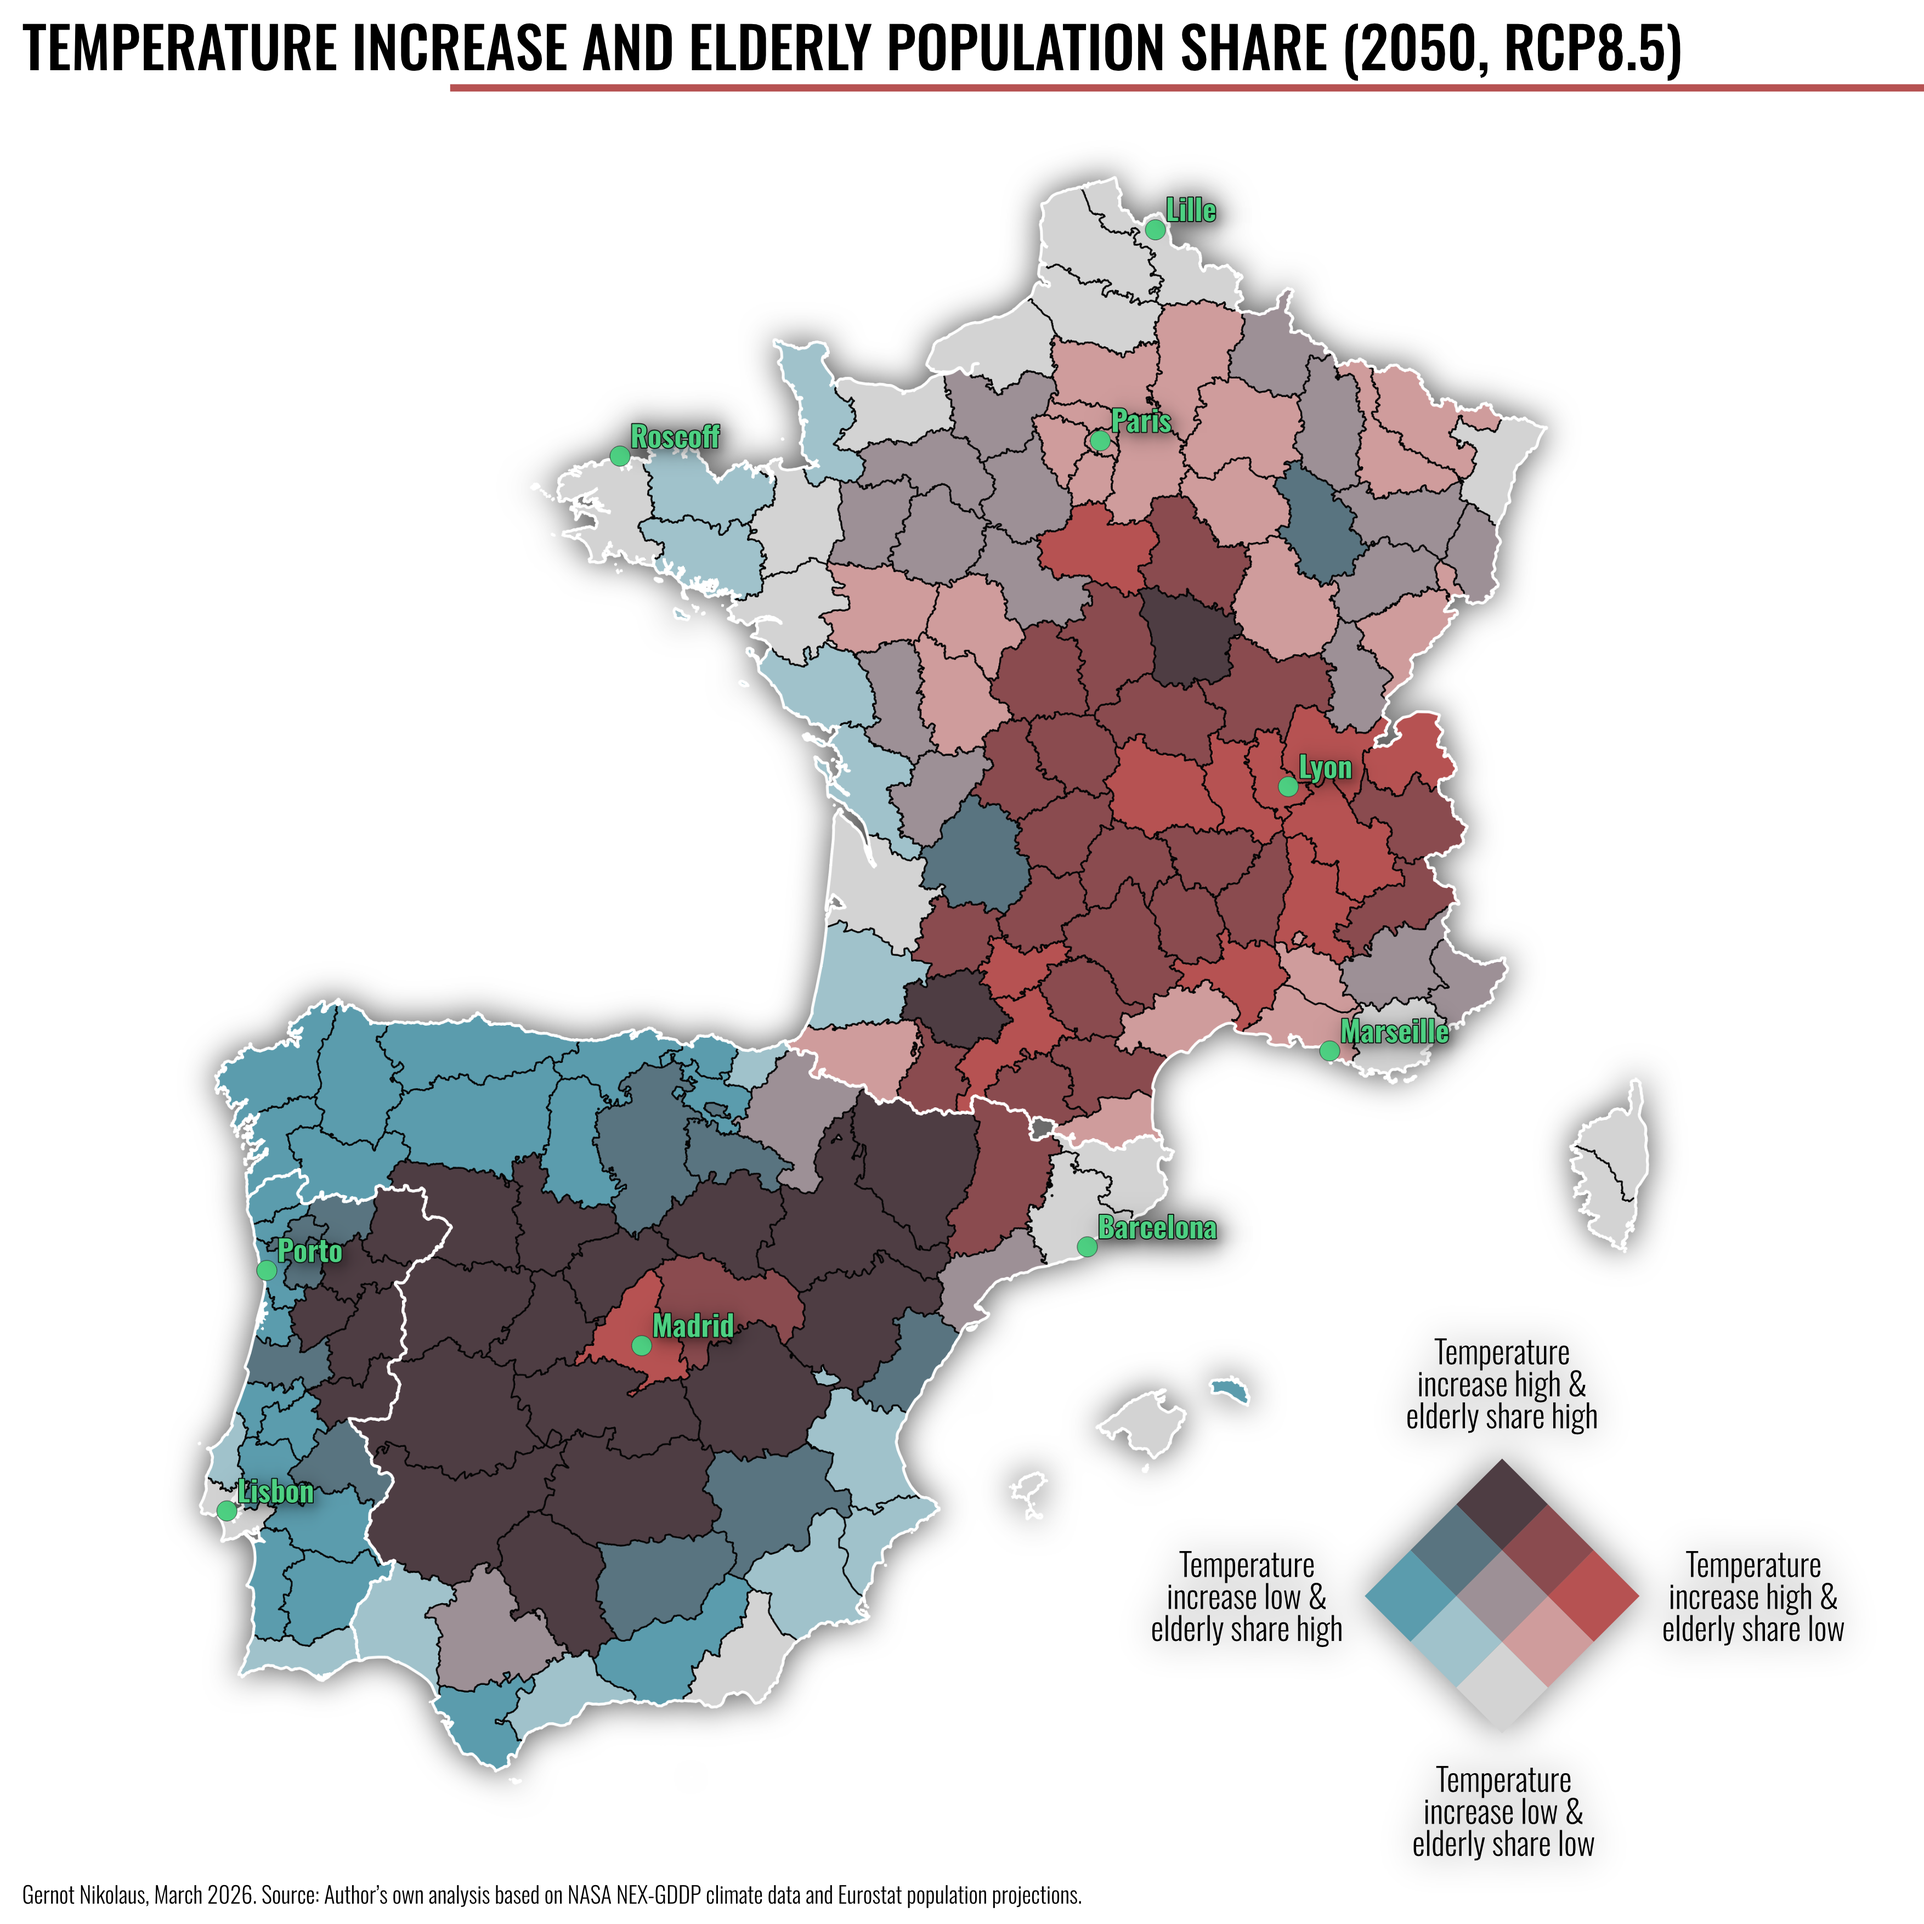
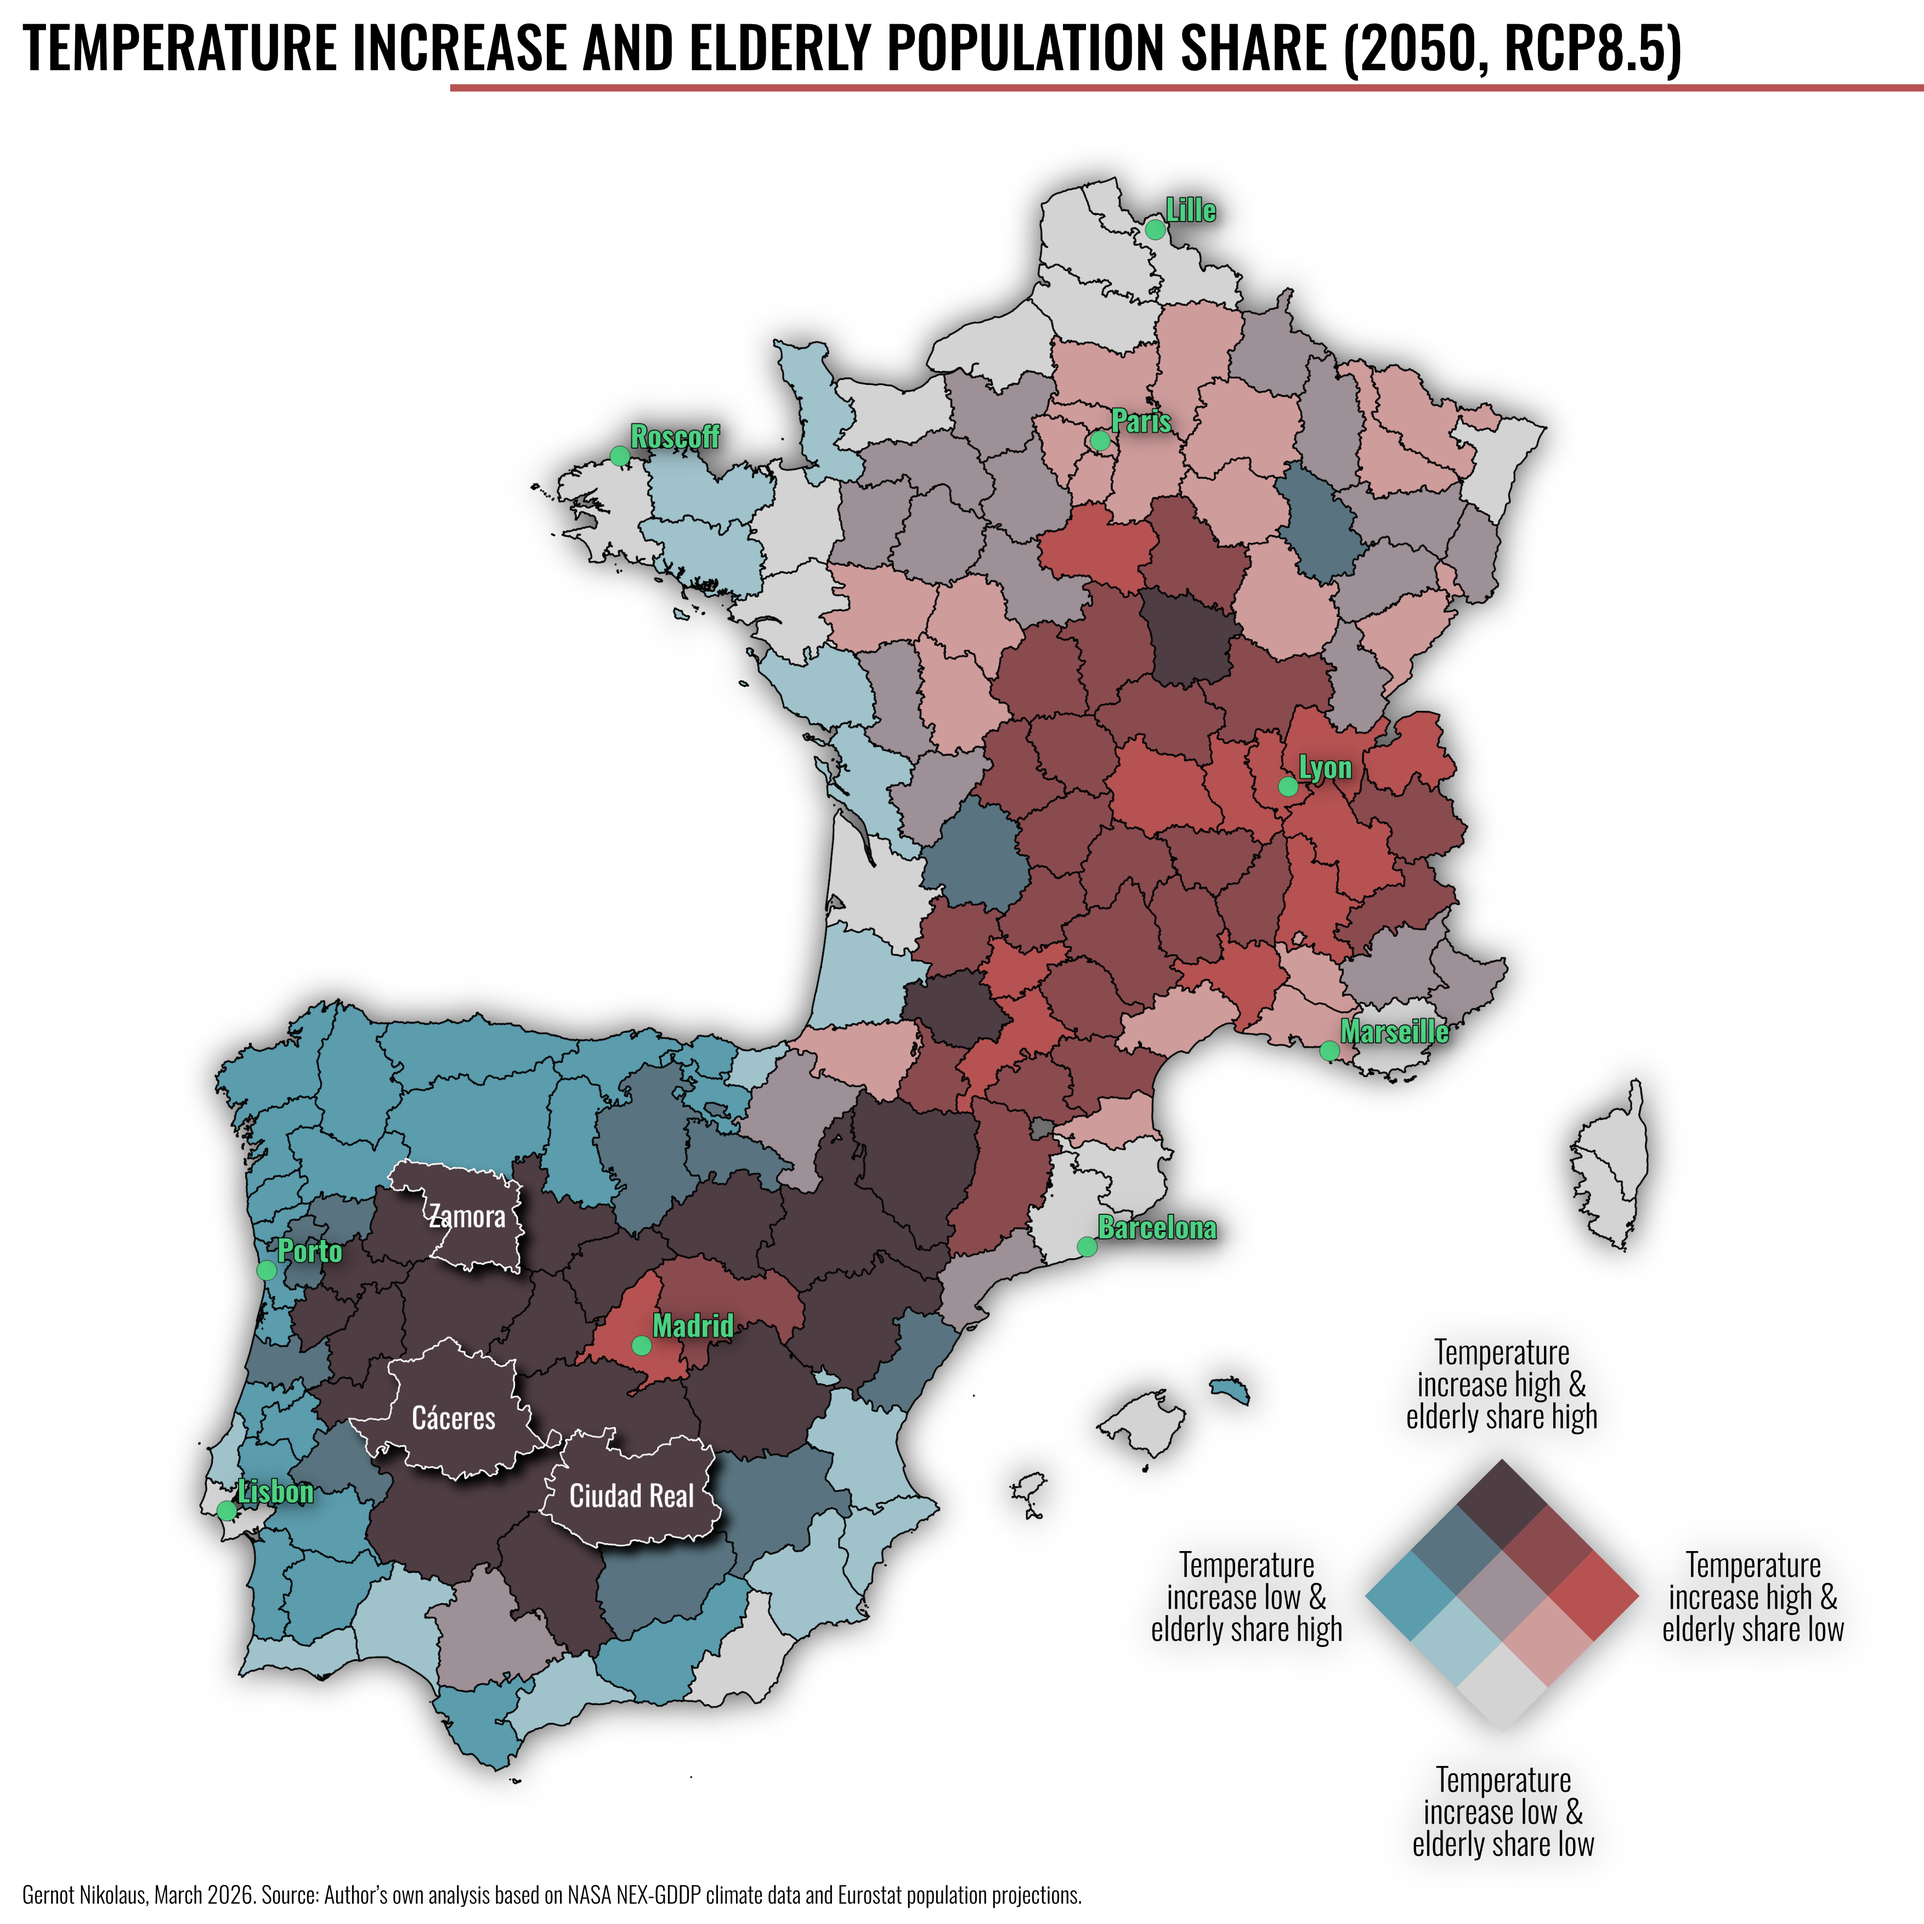
Heat Study

diff --git a/_projects/2026-03-29-ProjectedHeatExposure-ElderlyPopulations-SouthwesternEurope.md b/_projects/2026-03-29-ProjectedHeatExposure-ElderlyPopulations-SouthwesternEurope.md
@@ -6,16 +6,16 @@ categories: [projects]
 permalink: /projects/ProjectedHeatExposureElderlyPopulationsSouthwesternEurope
 ---
 
-August 2025 was the third-warmest August on record globally; Heatwaves are becoming increasingly frequent and intense in Southwestern Europe [1]. Using NASA/NEX-GDDP [2] climate models (MIROC5, GFDL-CM3, HadGEM2-ES), EUROSTAT demographic projections [3], I analyzed the future exposure for elderly populations in Portugal, Spain, and France to summer heat under different climate scenarios (current, RCP4.5, and RCP8.5).
+August 2025 was the third-warmest August on record globally; Heatwaves are becoming increasingly frequent and intense in Southwestern Europe [1]. Using NASA/NEX-GDDP [2] climate models (MIROC5, GFDL-CM3, HadGEM2-ES), EUROSTAT demographic projections [3], I analyzed the future exposure of elderly populations in Portugal, Spain, and France to summer heat under different climate scenarios (current, RCP4.5, and RCP8.5).
 
-In GEE, I calculated the summer mean temperature for Portugal, Spain, and France under current and future projections (RCP4.5 and RCP8.5) and aggregated the data at NUTS3 level (sub-regional administrative units in the EU) using zonal statistics. Outputs were exported for further analysis in R (sf, dplyr, ggplot2) and prepared for mapping in QGIS.
+In Google Earth Engine (GEE), I calculated summer mean temperature for the three countries and aggregated the data at NUTS3 level (sub-regional administrative units in the EU) using zonal statistics. Outputs were exported for further analysis in R (sf, dplyr, ggplot2) and prepared for mapping in QGIS.
 
 <div class="blog-image">
   <img src="{{ '/assets/images/projects/ProjectedHeatExposureElderlyPopulationsSouthwesternEurope/TemperatureMaps_GernotNikolaus.png' | relative_url }}" alt="Mean Summer Temperature in Southwestern Europe (own figure)">
   <figcaption>Figure 1: Mean Summer Temperature in Southwestern Europe (own figure).</figcaption>
 </div>
 
-Figure 1 shows the distribution of summer temperatures in Southwestern Europe. While Portugal and especially Spain already have the highest baseline temperatures, these regions are projected to experience the largest increases. Southern and inland Spain (e.g., Córdoba, Sevilla, Ciudad Real, Badajoz) are expected to reach mean summer temperatures of 36–37°C (Table 1), with temperature increases up to 5°C (Figure 2-3). Portugal’s Alentejo region will also warm significantly (~33–34°C), while France experiences moderate warming (~28–31°C), the temperature increase is still high.
+Figure 1 shows the distribution of summer temperatures in Southwestern Europe. While Portugal and especially Spain already have the highest baseline temperatures, these regions are projected to experience the largest increases. Southern and inland Spain (e.g., Córdoba, Sevilla, Ciudad Real, Badajoz) are expected to reach mean summer temperatures of 36–37°C (Table 1), with temperature increases up to 5°C (Figure 2 and 3) in RCP8.5. Portugal’s Alentejo region will also warm significantly (~33–34°C), while France experiences moderate warming (~28–31°C).
 
 <div class="blog-image">
   <img src="{{ '/assets/images/projects/ProjectedHeatExposureElderlyPopulationsSouthwesternEurope/delta_GernotNikolaus.png' | relative_url }}" alt="Projected Summer Temperature Increase in Southwestern Europe (ΔT) 2050 (own figure)">
@@ -27,7 +27,7 @@ Figure 1 shows the distribution of summer temperatures in Southwestern Europe. W
   <figcaption>Figure 3: Distribution of Summer Temperatures in Southwestern Europe (own figure).</figcaption>
 </div>
 
-While the elderly share 2025 is quite even in the countries, Spain will have an increasing elderly grow in northwestern and inland regions by 2050 (Figure 4). Regions such as Zamora, León, and Asturias are projected to see elderly shares rise to 43–47%. Portugal shows moderate increases in elderly share, while France remains comparatively stable (Table 1, shows only top 10 NUTS3).
+Figure 4 shows the projected share of elderly populations (65+) for 2025 and 2050. While the elderly share 2025 is quite even in the countries, Spain will have an increasing elderly grow in northwestern and inland regions. Regions such as Zamora, León, and Asturias are projected to see elderly shares rise to 43–47%. Portugal shows moderate increases in elderly share, while France remains comparatively stable (Table 1).
 
 <div class="blog-image">
   <img src="{{ '/assets/images/projects/ProjectedHeatExposureElderlyPopulationsSouthwesternEurope/Elderly_GernotNikolaus.png' | relative_url }}" alt="Elderly share (65+) 2025 vs 2050 (own figure)">
@@ -41,14 +41,14 @@ Figure 5 shows elderly population shares. The overall trend is a clear rightward
   <figcaption>Figure 5: Distribution of Elderly Population Share by Country (own figure).</figcaption>
 </div>
 
-Figure 6 shows a bivariate map, visualizing delta8.5 and share of elderly Population by 2050. This map shows patterns to identify regions of highest vulnerability. Spain’s inland provinces, such as Zamora, Cáceres, and Ciudad Real, have the highest combined exposure due to both high temperatures and a large proportion of elderly residents. While Portugal shows moderate combined exposure, France’s regions, while temperature increases, have lower elderly shares and thus lower exposure overall (compare with Figure 5).
+Figure 6 shows a bivariate map, combining temperature increase (ΔT under RCP8.5) and projected elderly share. This map shows patterns to identify regions of highest vulnerability. Spain’s inland provinces, such as Zamora, Cáceres, and Ciudad Real, have the highest combined exposure due to both high temperatures and a large proportion of elderly residents. While Portugal shows moderate combined exposure, France’s regions, while temperature increases, have lower elderly shares and thus lower exposure overall (compare with Figure 5).
 
 <div class="blog-image">
   <img src="{{ '/assets/images/projects/ProjectedHeatExposureElderlyPopulationsSouthwesternEurope/bivariateMap_delta85_elderly2050_GernotNikolaus.png' | relative_url }}" alt="Temperature Increase and Elderly Population Share (2050, RCP8.5) (own figure)">
   <figcaption>Figure 6: Temperature Increase and Elderly Population Share (2050, RCP8.5) (own figure).</figcaption>
 </div>
 
-Table 1 lists the top 30 NUTS3 regions by combined exposure, highlighting Spain’s dominance in regions most at risk. The combined exposure indicator was calculated by normalizing projected summer temperature (RCP8.5) and elderly population share (2050) to a 0–1 scale and summing both variables. Only the top 30 regions are displayed here for clarity. The full dataset includes 170 NUTS3 regions across Portugal, Spain, and France.
+Table 1 lists the top 30 NUTS3 regions by combined exposure, highlighting Spain’s dominance in regions most at risk. The combined exposure indicator was calculated by normalizing projected summer temperature (RCP8.5) and elderly population share (2050) to a 0–1 scale and summing both variables. The combined exposure indicator represents relative exposure within the study area and does not account for adaptive capacity, urban heat effects, or socioeconomic vulnerability. Only top 30 regions are displayed here for clarity. The full dataset includes 170 NUTS3 regions across Portugal, Spain, and France.
   
 | NUTS_NAME.x               | COUNTRY | ELDERLY_SHARE_2025 | ELDERLY_SHARE_2050 | TEMP_base | TEMP_rcp45 | TEMP_rcp85 | DELTA_45 | DELTA_85 | Combined_Exposure |
 |---------------------------|---------|--------------------|--------------------|-----------|------------|------------|----------|----------|-------------------|
